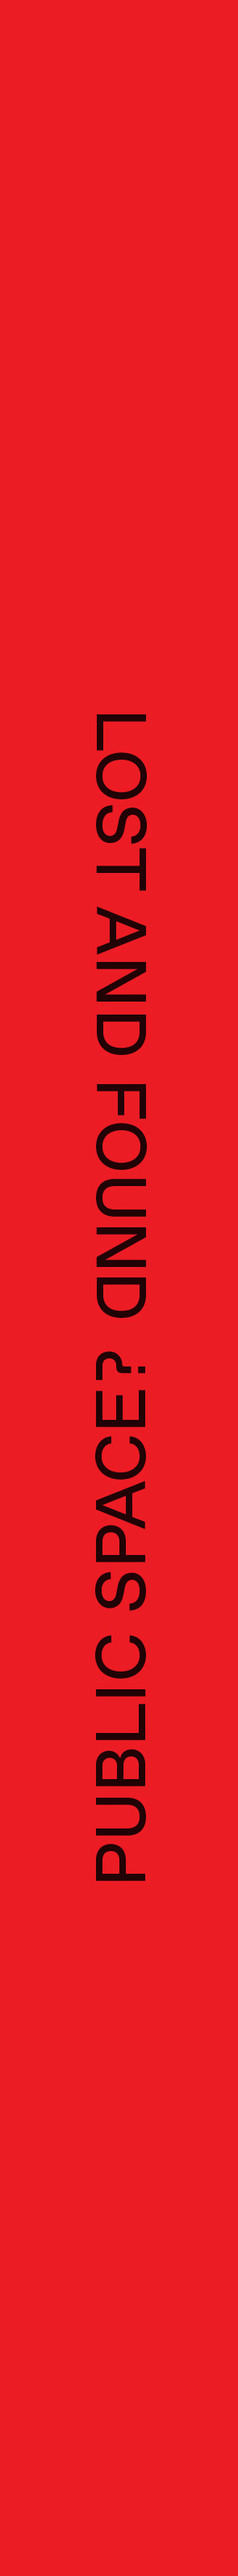
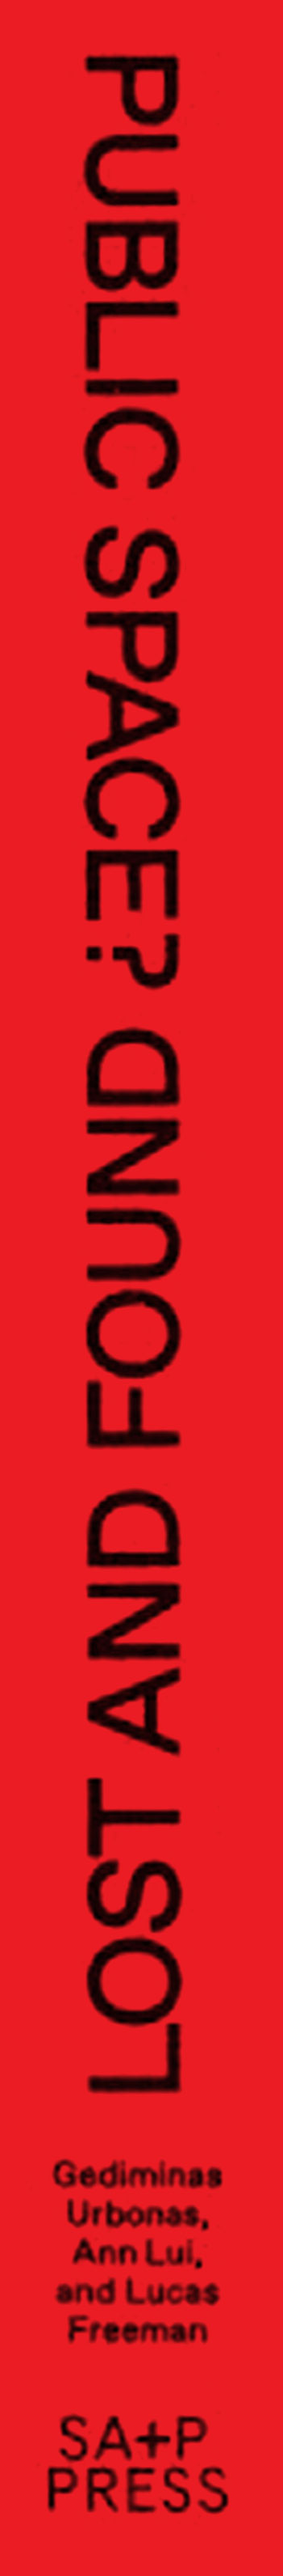
added credits

Changed region(s): [[0.1525, 0.0, 0.7932, 0.995]]

diff --git a/src/components/Book.vue b/src/components/Book.vue
@@ -1,8 +1,8 @@
 <template>
   <div class="container">
     <div :style="axisStyleObject">
-      <div class="box-holder" :style="animationStyleObject">
-          <div  class="box--front"
+      <div class="book-container" :style="animationStyleObject">
+          <div  class="book-front"
                 :style="{
                   'width': boxWidth + 'px',
                   'height': boxHeight + 'px',
@@ -10,7 +10,7 @@
                   'transform': 'translate3d(' + boxWidth * -0.5 + 'px ,' + boxHeight * -0.5 + 'px ,'+boxDepth/2+'px) translate3d(0,0,0) rotateY(0deg)'
                   }"
           ></div>
-          <div  class="box--side-left"
+          <div  class="book-side-left"
                 :style="{
                   'width': boxDepth+1 + 'px',
                   'height': boxHeight+1 + 'px',
@@ -18,7 +18,7 @@
                   'transform': 'translate3d(' + boxWidth * -0.5 + 'px ,' + boxHeight * -0.5 + 'px ,'+boxDepth/2+'px) translate3d(' + boxDepth*-0.5 + 'px, 0, ' + boxDepth*-0.5 + 'px) rotateY(-90deg)'
                   }"
           ></div>
-          <div  class="box--side-right"
+          <div  class="book-side-right"
                 :style="{
                   'width': boxDepth+1 + 'px',
                   'height': boxHeight+1 + 'px',
@@ -26,7 +26,7 @@
                   'transform': 'translate3d(' + boxWidth * -0.5 + 'px ,' + boxHeight * -0.5 + 'px ,'+boxDepth/2+'px) translate3d(' + (boxWidth-(boxDepth*0.5)) + 'px, 0px,' + boxDepth*-0.5 + 'px) rotateY(90deg)'
                   }"
           ></div>
-          <div  class="box--top"
+          <div  class="book-top"
                 :style="{
                   'width': boxWidth+1 + 'px',
                   'height': boxDepth + 'px',
@@ -35,7 +35,7 @@
                   'transform': 'translate3d(' + boxWidth * -0.5 + 'px, ' + boxHeight * -0.5 + 'px ,'+boxDepth/2+'px) translate3d(0px, ' + boxDepth*-0.5 + 'px, '+ -boxDepth*0.5 + 'px) rotateX(90deg)'
                   }"
           ></div>
-          <div  class="box--bottom"
+          <div  class="book-bottom"
                 :style="{
                   'width': boxWidth+1 + 'px',
                   'height': boxDepth + 'px',
@@ -44,7 +44,7 @@
                   'transform': 'translate3d(' + boxWidth * -0.5 + 'px ,' + boxHeight * -0.5 + 'px ,'+boxDepth/2+'px) translate3d(0px, ' + (boxHeight - (boxDepth*0.5)) + 'px, ' + boxDepth*-0.5 + 'px) rotateX(-90deg)'
                   }"
           ></div>
-          <div  class="box--back"
+          <div  class="book-back"
                 :style="{
                   'width': boxWidth+1 + 'px',
                   'height': boxHeight+1 + 'px',
@@ -125,18 +125,23 @@ export default {
     transform-style: preserve-3d;
   }
 }
-.box-holder{
+.book-container{
   transform-style: preserve-3d;
   > div {
     position: absolute;
     top: 0;
     left: 0;
     background-size: cover !important;
-    background-position: center center;
+    background-position: center center !important;
     backface-visibility: visible;
   }
-  .box--top, .box--bottom, .box--side-right {
-    background-size: 100%  100% !important;
+  .book-top, .book-bottom, .book-side-right {
+    background-size: auto  auto !important;
+    background-repeat: repeat !important;
+    background-position: top left !important;
+  }
+  .book-top, {
+    background-position: bottom right !important;
   }
 }
 

diff --git a/src/components/Controls/Credits.vue b/src/components/Controls/Credits.vue
@@ -12,8 +12,8 @@
     </span>
     <div class="credits">
       <p>This tool was built for <a class="external" href="http://nodeberlin.com/" target="_blank">NODE Berlin Oslo</a> to present book designs, now available for public use.</p>
-      <p>Book: <em>The Midden</em>, designed by <a class="external" href="http://nodeberlin.com/" target="_blank">NODE Berlin Oslo</a></p>
-      <p>Development: <a class="external" href="http://marco.land" target="_blank">Marco Land</a></p>
+      <p>Book: <br><em>Public Space? Lost and Found</em> (MIT Press) designed by <a class="external" href="http://nodeberlin.com/" target="_blank">NODE Berlin Oslo</a></p>
+      <p>Development: <br><a class="external" href="http://marco.land" target="_blank">Marco Land</a></p>
       <p><a href="http://marco.land/imprint" target="_blank">Imprint</a></p>
     </div>
   </div>

diff --git a/src/App.vue b/src/App.vue
@@ -25,15 +25,15 @@ export default {
     return {
       hasLoaded: false,
       background: {
-        r: '248',
-        g: '231',
-        b: '28',
+        r: '0',
+        g: '114',
+        b: '255',
         a: '1'
       },
-      width: 149,
-      height: 200,
-      depth: 20,
-      scale: 2.5,
+      width: 200,
+      height: 270,
+      depth: 29,
+      scale: 2,
       cover: '/static/images/book-cover.jpg',
       back: '/static/images/book-back.jpg',
       spine: '/static/images/book-spine.jpg',
@@ -110,7 +110,7 @@ export default {
   align-items: center;
   h1 {
     font-size: 5vw;
-    color: black;
+    color: white;
     transform: translateY(-0.25em);
     letter-spacing: -0.025em;
     span {
